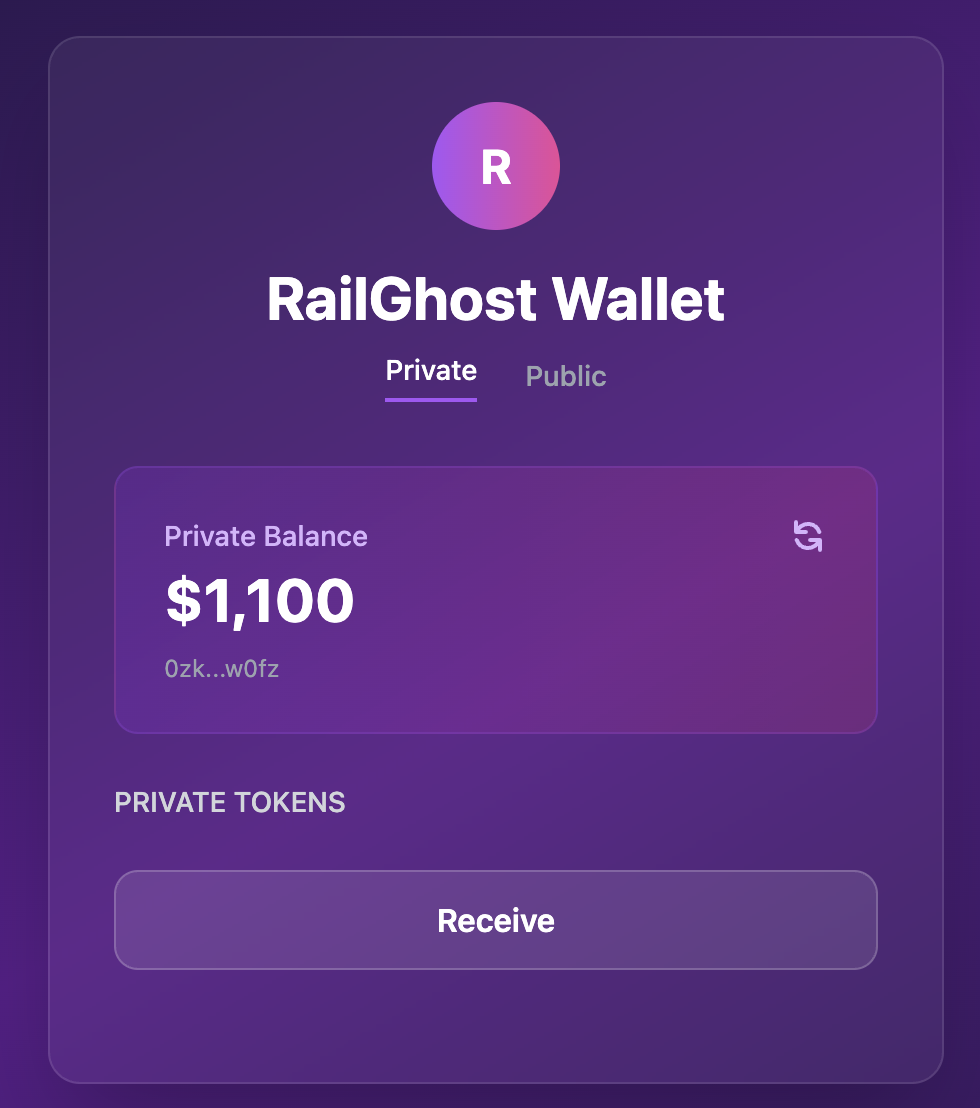
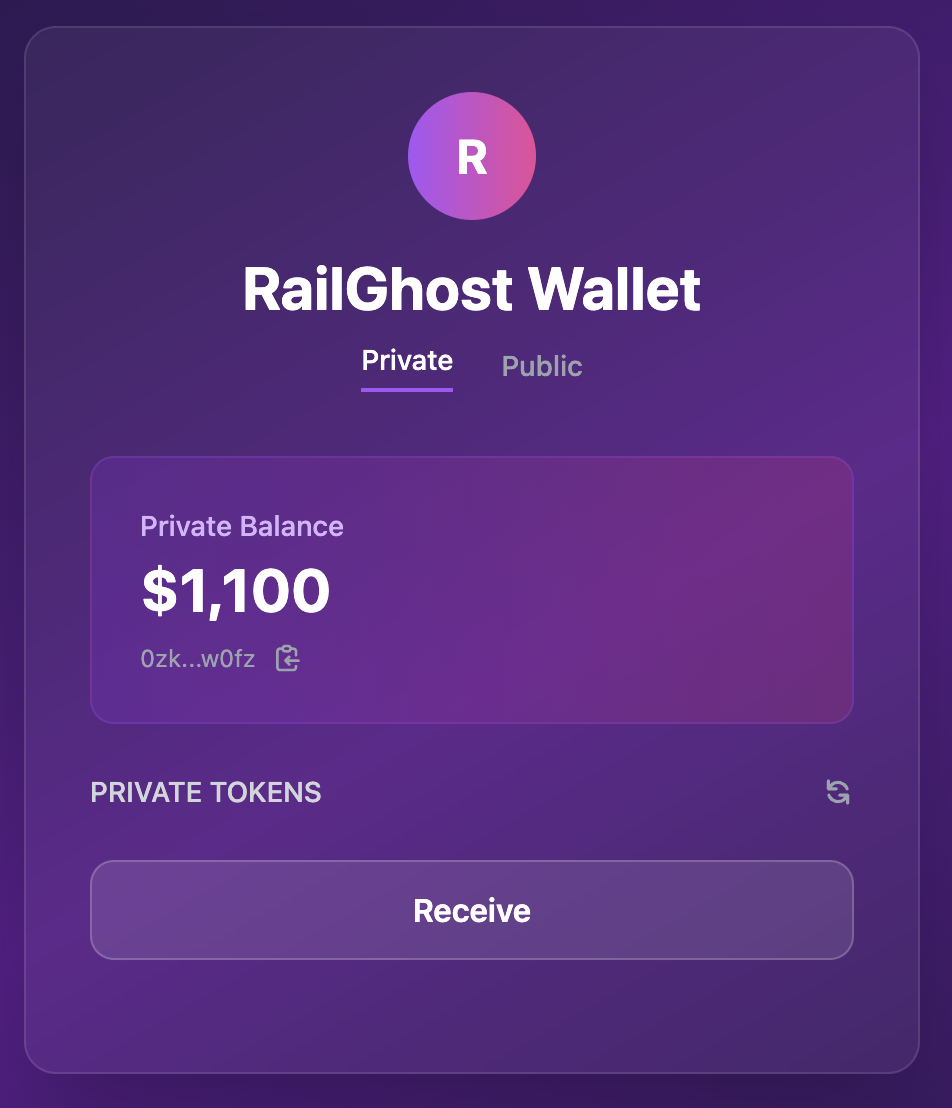
Improves public and private views

diff --git a/src/components/WalletDashboard.tsx b/src/components/WalletDashboard.tsx
@@ -127,6 +127,10 @@ export default function WalletDashboard() {
 
   if (!wallet) return null;
 
+  const copyToClipboard = (text: string) => {
+    navigator.clipboard.writeText(text);
+  };
+
   // Shield Assets View
   if (currentView === "shield") {
     return (
@@ -376,64 +380,86 @@ export default function WalletDashboard() {
           <>
             {/* Private Balance */}
             <div className="bg-gradient-to-r from-purple-600/20 to-pink-600/20 rounded-xl p-6 mb-6 border border-purple-500/20">
-              <div className="flex justify-between items-start">
-                <div>
-                  <h2 className="text-sm font-medium text-purple-300 mb-1">
-                    Private Balance
-                  </h2>
-                  <p className="text-3xl font-bold text-white">$1,100</p>
-                  <p className="text-xs text-gray-400 mt-2">
+              <div>
+                <h2 className="text-sm font-medium text-purple-300 mb-1">
+                  Private Balance
+                </h2>
+                <p className="text-3xl font-bold text-white">$1,100</p>
+                <div className="flex items-center mt-2">
+                  <p className="text-xs text-gray-400">
                     0zk...{wallet.railgunAddress.slice(-4)}
                   </p>
-                </div>
-                <button
-                  onClick={handleRefresh}
-                  disabled={isRefreshing}
-                  className="text-purple-300 hover:text-white disabled:opacity-50"
-                >
-                  {isRefreshing ? (
+                  <button
+                    onClick={() => copyToClipboard(wallet.railgunAddress)}
+                    className="ml-2 text-gray-400 hover:text-white"
+                  >
                     <svg
-                      className="animate-spin h-5 w-5"
                       xmlns="http://www.w3.org/2000/svg"
+                      className="h-4 w-4"
                       fill="none"
                       viewBox="0 0 24 24"
-                    >
-                      <circle
-                        className="opacity-25"
-                        cx="12"
-                        cy="12"
-                        r="10"
-                        stroke="currentColor"
-                        strokeWidth="4"
-                      ></circle>
-                      <path
-                        className="opacity-75"
-                        fill="currentColor"
-                        d="M4 12a8 8 0 018-8V0C5.373 0 0 5.373 0 12h4zm2 5.291A7.962 7.962 0 014 12H0c0 3.042 1.135 5.824 3 7.938l3-2.647z"
-                      ></path>
-                    </svg>
-                  ) : (
-                    <svg
-                      xmlns="http://www.w3.org/2000/svg"
-                      className="h-5 w-5"
-                      viewBox="0 0 20 20"
-                      fill="currentColor"
+                      stroke="currentColor"
                     >
                       <path
-                        fillRule="evenodd"
-                        d="M4 2a1 1 0 011 1v2.101a7.002 7.002 0 0111.601 2.566 1 1 0 11-1.885.666A5.002 5.002 0 005.999 7H9a1 1 0 010 2H4a1 1 0 01-1-1V3a1 1 0 011-1zm.008 9.057a1 1 0 011.276.61A5.002 5.002 0 0014.001 13H11a1 1 0 110-2h5a1 1 0 011 1v5a1 1 0 11-2 0v-2.101a7.002 7.002 0 01-11.601-2.566 1 1 0 01.61-1.276z"
-                        clipRule="evenodd"
+                        strokeLinecap="round"
+                        strokeLinejoin="round"
+                        strokeWidth={2}
+                        d="M8 5H6a2 2 0 00-2 2v12a2 2 0 002 2h10a2 2 0 002-2v-1M8 5a2 2 0 002 2h2a2 2 0 002-2M8 5a2 2 0 012-2h2a2 2 0 012 2m0 0h2a2 2 0 012 2v3m2 4H10m0 0l3-3m-3 3l3 3"
                       />
                     </svg>
-                  )}
-                </button>
+                  </button>
+                </div>
               </div>
             </div>
 
             {/* Private Tokens */}
-            <h3 className="text-sm font-medium text-gray-300 mb-4">
-              PRIVATE TOKENS
-            </h3>
+            <div className="flex justify-between items-center mb-4">
+              <h3 className="text-sm font-medium text-gray-300">
+                PRIVATE TOKENS
+              </h3>
+              <button
+                onClick={handleRefresh}
+                disabled={isRefreshing}
+                className="text-gray-400 hover:text-white disabled:opacity-50"
+              >
+                {isRefreshing ? (
+                  <svg
+                    className="animate-spin h-4 w-4"
+                    xmlns="http://www.w3.org/2000/svg"
+                    fill="none"
+                    viewBox="0 0 24 24"
+                  >
+                    <circle
+                      className="opacity-25"
+                      cx="12"
+                      cy="12"
+                      r="10"
+                      stroke="currentColor"
+                      strokeWidth="4"
+                    ></circle>
+                    <path
+                      className="opacity-75"
+                      fill="currentColor"
+                      d="M4 12a8 8 0 018-8V0C5.373 0 0 5.373 0 12h4zm2 5.291A7.962 7.962 0 014 12H0c0 3.042 1.135 5.824 3 7.938l3-2.647z"
+                    ></path>
+                  </svg>
+                ) : (
+                  <svg
+                    xmlns="http://www.w3.org/2000/svg"
+                    className="h-4 w-4"
+                    viewBox="0 0 20 20"
+                    fill="currentColor"
+                  >
+                    <path
+                      fillRule="evenodd"
+                      d="M4 2a1 1 0 011 1v2.101a7.002 7.002 0 0111.601 2.566 1 1 0 11-1.885.666A5.002 5.002 0 005.999 7H9a1 1 0 010 2H4a1 1 0 01-1-1V3a1 1 0 011-1zm.008 9.057a1 1 0 011.276.61A5.002 5.002 0 0014.001 13H11a1 1 0 110-2h5a1 1 0 011 1v5a1 1 0 11-2 0v-2.101a7.002 7.002 0 01-11.601-2.566 1 1 0 01.61-1.276z"
+                      clipRule="evenodd"
+                    />
+                  </svg>
+                )}
+              </button>
+            </div>
+
             <div className="space-y-3 mb-6">
               {Object.entries(wallet.balances).map(
                 ([symbol, balance], index) => (
@@ -446,8 +472,7 @@ export default function WalletDashboard() {
                         <p className="text-white font-medium">
                           {symbol} {balance.toString()}
                         </p>
-                        <p className="text-xs text-gray-400">—</p>{" "}
-                        {/* Replace with value if available */}
+                        <p className="text-xs text-gray-400">—</p>
                       </div>
                       <button className="bg-white/10 hover:bg-white/20 text-white text-xs font-medium py-1.5 px-3 rounded-full">
                         Send
@@ -458,7 +483,7 @@ export default function WalletDashboard() {
               )}
             </div>
 
-            {/* Actions - Remove Shield Assets button from private tab */}
+            {/* Actions */}
             <div className="grid grid-cols-1 gap-4 mb-6">
               <button className="bg-white/10 hover:bg-white/20 text-white font-semibold py-3 px-4 rounded-xl border border-white/20 transition-all duration-200">
                 Receive
@@ -469,63 +494,86 @@ export default function WalletDashboard() {
           <>
             {/* Public Balance */}
             <div className="bg-gradient-to-r from-blue-600/20 to-cyan-600/20 rounded-xl p-6 mb-6 border border-blue-500/20">
-              <div className="flex justify-between items-start">
-                <div>
-                  {/* <h2 className="text-sm font-medium text-blue-300 mb-1">
-                    Public Balance
-                  </h2> */}
-                  {/* <p className="text-3xl font-bold text-white">$3,700</p> */}
-                  <p className="text-xs text-gray-400 mt-2">
-                    0x...{wallet.railgunAddress.slice(-4)}
+              <div>
+                <h2 className="text-sm font-medium text-blue-300 mb-1">
+                  Public Balance
+                </h2>
+                <p className="text-3xl font-bold text-white">$3,700</p>
+                <div className="flex items-center mt-2">
+                  <p className="text-xs text-gray-400">
+                    0x...{wallet.publicAddress.slice(-4)}
                   </p>
-                </div>
-                <button
-                  onClick={handleRefresh}
-                  disabled={isRefreshing}
-                  className="text-blue-300 hover:text-white disabled:opacity-50"
-                >
-                  {isRefreshing ? (
+                  <button
+                    onClick={() => copyToClipboard(wallet.publicAddress)}
+                    className="ml-2 text-gray-400 hover:text-white"
+                  >
                     <svg
-                      className="animate-spin h-5 w-5"
                       xmlns="http://www.w3.org/2000/svg"
+                      className="h-4 w-4"
                       fill="none"
                       viewBox="0 0 24 24"
-                    >
-                      <circle
-                        className="opacity-25"
-                        cx="12"
-                        cy="12"
-                        r="10"
-                        stroke="currentColor"
-                        strokeWidth="4"
-                      ></circle>
-                      <path
-                        className="opacity-75"
-                        fill="currentColor"
-                        d="M4 12a8 8 0 018-8V0C5.373 0 0 5.373 0 12h4zm2 5.291A7.962 7.962 0 014 12H0c0 3.042 1.135 5.824 3 7.938l3-2.647z"
-                      ></path>
-                    </svg>
-                  ) : (
-                    <svg
-                      xmlns="http://www.w3.org/2000/svg"
-                      className="h-5 w-5"
-                      viewBox="0 0 20 20"
-                      fill="currentColor"
+                      stroke="currentColor"
                     >
                       <path
-                        fillRule="evenodd"
-                        d="M4 2a1 1 0 011 1v2.101a7.002 7.002 0 0111.601 2.566 1 1 0 11-1.885.666A5.002 5.002 0 005.999 7H9a1 1 0 010 2H4a1 1 0 01-1-1V3a1 1 0 011-1zm.008 9.057a1 1 0 011.276.61A5.002 5.002 0 0014.001 13H11a1 1 0 110-2h5a1 1 0 011 1v5a1 1 0 11-2 0v-2.101a7.002 7.002 0 01-11.601-2.566 1 1 0 01.61-1.276z"
-                      ></path>
+                        strokeLinecap="round"
+                        strokeLinejoin="round"
+                        strokeWidth={2}
+                        d="M8 5H6a2 2 0 00-2 2v12a2 2 0 002 2h10a2 2 0 002-2v-1M8 5a2 2 0 002 2h2a2 2 0 002-2M8 5a2 2 0 012-2h2a2 2 0 012 2m0 0h2a2 2 0 012 2v3m2 4H10m0 0l3-3m-3 3l3 3"
+                      />
                     </svg>
-                  )}
-                </button>
+                  </button>
+                </div>
               </div>
             </div>
 
             {/* Public Tokens */}
-            <h3 className="text-sm font-medium text-gray-300 mb-4">
-              PUBLIC TOKENS
-            </h3>
+            <div className="flex justify-between items-center mb-4">
+              <h3 className="text-sm font-medium text-gray-300">
+                PUBLIC TOKENS
+              </h3>
+              <button
+                onClick={handleRefresh}
+                disabled={isRefreshing}
+                className="text-gray-400 hover:text-white disabled:opacity-50"
+              >
+                {isRefreshing ? (
+                  <svg
+                    className="animate-spin h-4 w-4"
+                    xmlns="http://www.w3.org/2000/svg"
+                    fill="none"
+                    viewBox="0 0 24 24"
+                  >
+                    <circle
+                      className="opacity-25"
+                      cx="12"
+                      cy="12"
+                      r="10"
+                      stroke="currentColor"
+                      strokeWidth="4"
+                    ></circle>
+                    <path
+                      className="opacity-75"
+                      fill="currentColor"
+                      d="M4 12a8 8 0 018-8V0C5.373 0 0 5.373 0 12h4zm2 5.291A7.962 7.962 0 014 12H0c0 3.042 1.135 5.824 3 7.938l3-2.647z"
+                    ></path>
+                  </svg>
+                ) : (
+                  <svg
+                    xmlns="http://www.w3.org/2000/svg"
+                    className="h-4 w-4"
+                    viewBox="0 0 20 20"
+                    fill="currentColor"
+                  >
+                    <path
+                      fillRule="evenodd"
+                      d="M4 2a1 1 0 011 1v2.101a7.002 7.002 0 0111.601 2.566 1 1 0 11-1.885.666A5.002 5.002 0 005.999 7H9a1 1 0 010 2H4a1 1 0 01-1-1V3a1 1 0 011-1zm.008 9.057a1 1 0 011.276.61A5.002 5.002 0 0014.001 13H11a1 1 0 110-2h5a1 1 0 011 1v5a1 1 0 11-2 0v-2.101a7.002 7.002 0 01-11.601-2.566 1 1 0 01.61-1.276z"
+                      clipRule="evenodd"
+                    />
+                  </svg>
+                )}
+              </button>
+            </div>
+
             <div className="space-y-3 mb-6">
               {Object.entries(wallet.publicBalances).map(
                 ([symbol, token], index) => (
@@ -537,7 +585,6 @@ export default function WalletDashboard() {
                       <div>
                         <p className="text-white font-medium">{symbol}</p>
                         <p className="text-xs text-gray-400">
-                          {" "}
                           {token.balance.toString()}
                         </p>
                       </div>

diff --git a/src/contexts/WalletContext.tsx b/src/contexts/WalletContext.tsx
@@ -266,6 +266,7 @@ export function WalletProvider({ children }: WalletProviderProps) {
         throw new Error("Failed to load wallet");
       }
       const publicWallet = Wallet.fromPhrase(mnemonic);
+      console.log("Loaded wallet:", publicWallet.address);
       const publicBalances = await refreshPublicBalances(publicWallet.address);
       updateState({
         wallet: {
@@ -424,7 +425,6 @@ export function WalletProvider({ children }: WalletProviderProps) {
 
   useEffect(() => {
     initializeEngine().then(() => {
-      console.log("done init");
       setOnBalanceUpdateCallback(
         async (balancesFormatted: RailgunBalancesEvent) => {
           console.log("setOnBalanceUpdateCallback");
